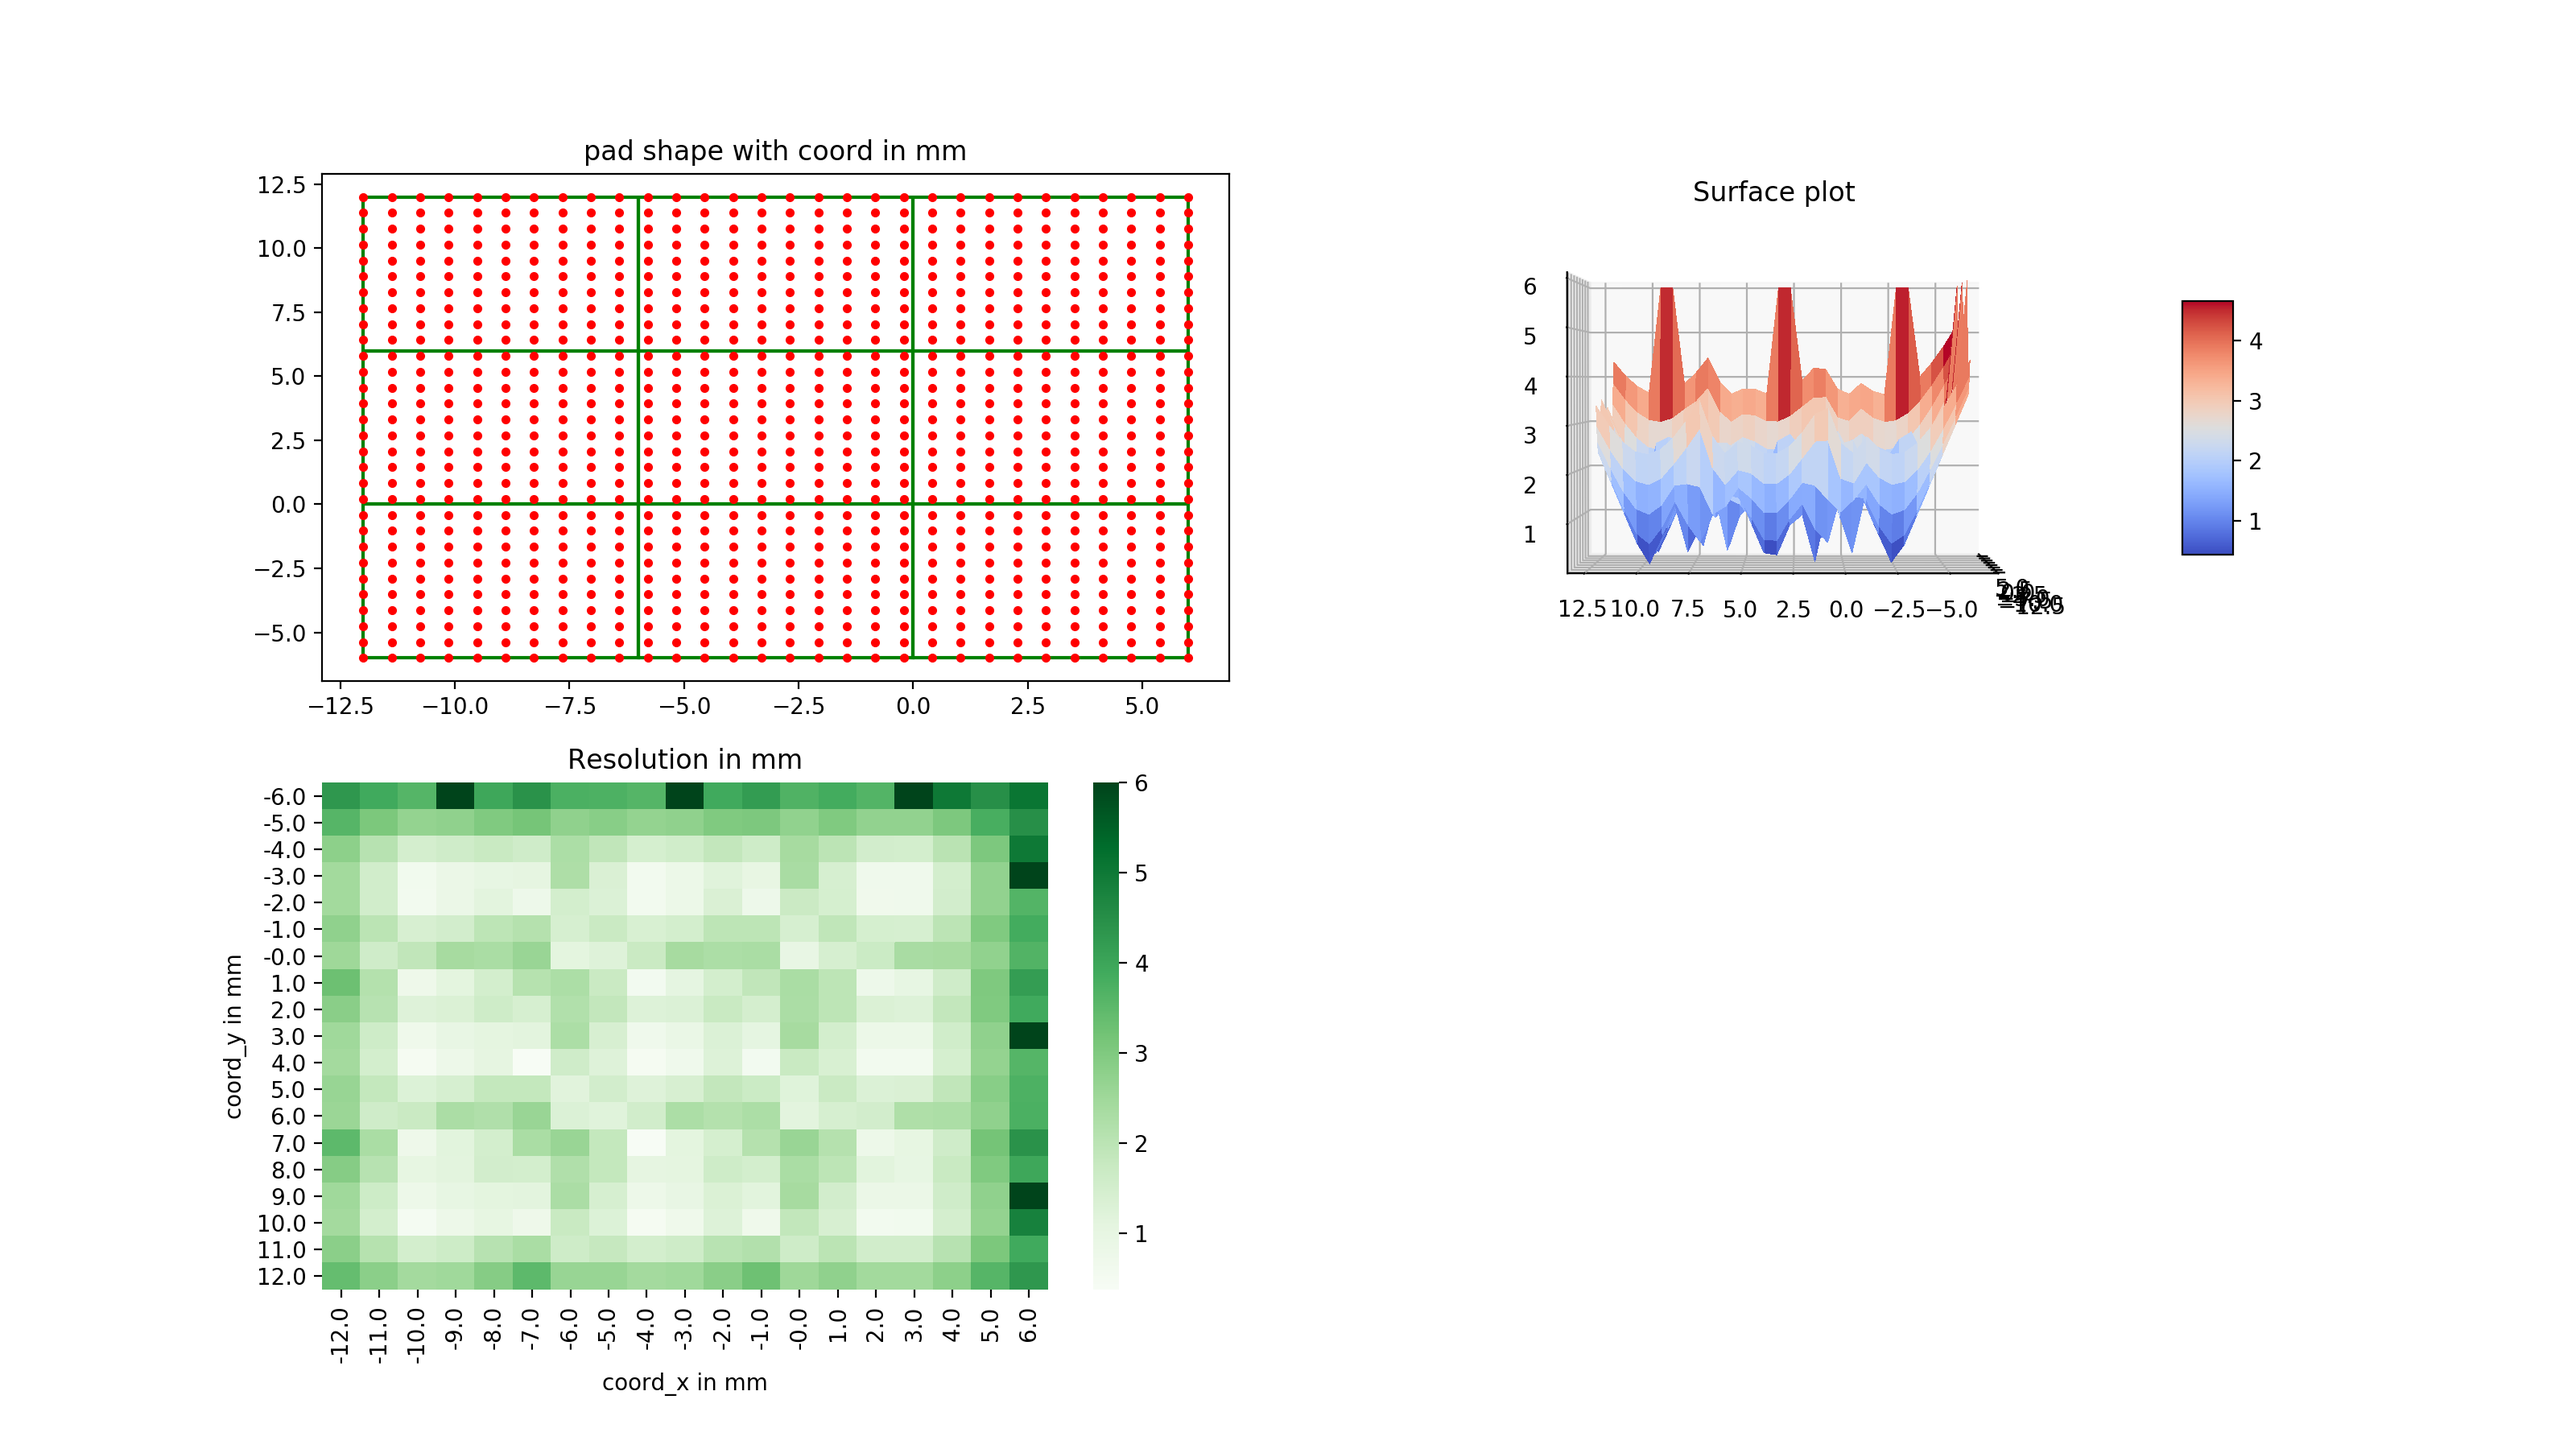
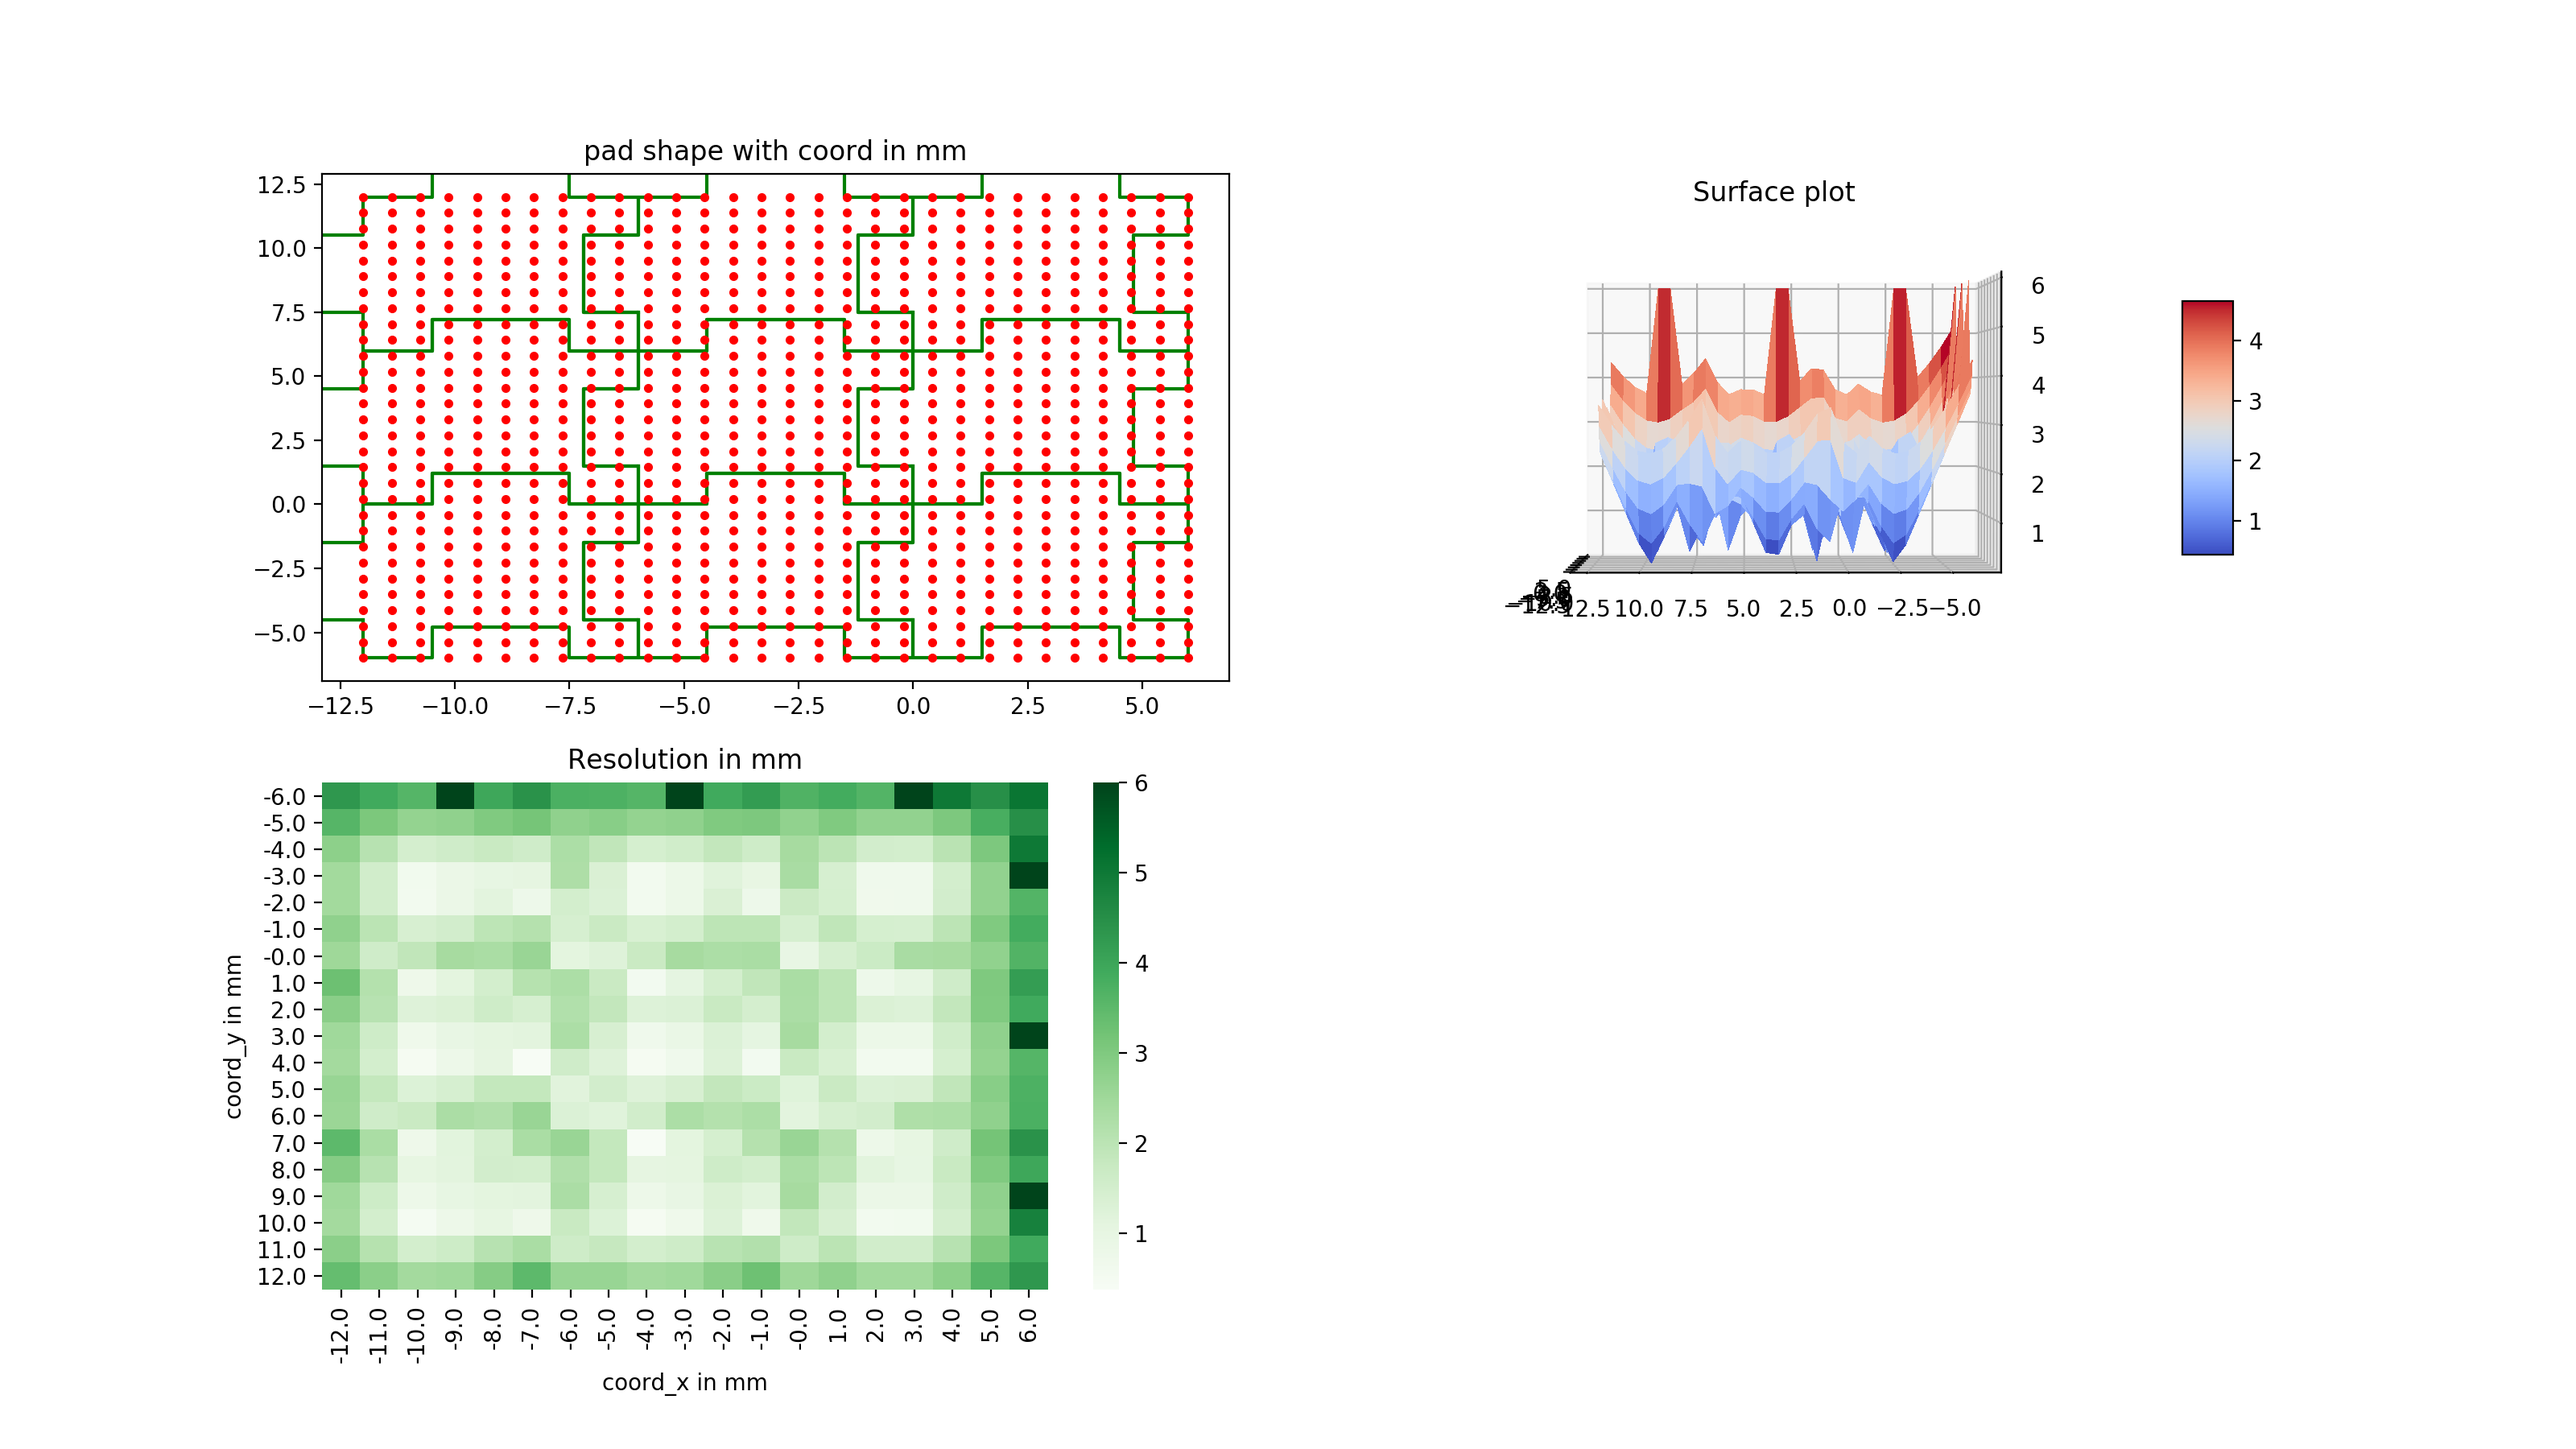
final4

diff --git a/AnodeSim.py b/AnodeSim.py
@@ -238,7 +238,7 @@ average_num = 15 #how many simulations at one laser pos
 
 newPad = myPadArray(side)
 newPad.get_one_square_box()
-#newPad.modify_one_o_box(0.25, newPad.side/5) #start at 0.25 end at 0.75, height is 1/4 of the side
+newPad.modify_one_o_box(0.25, newPad.side/5) #start at 0.25 end at 0.75, height is 1/4 of the side
 newPad.calculate_center()
 newPad.get_pad_nine()
 
